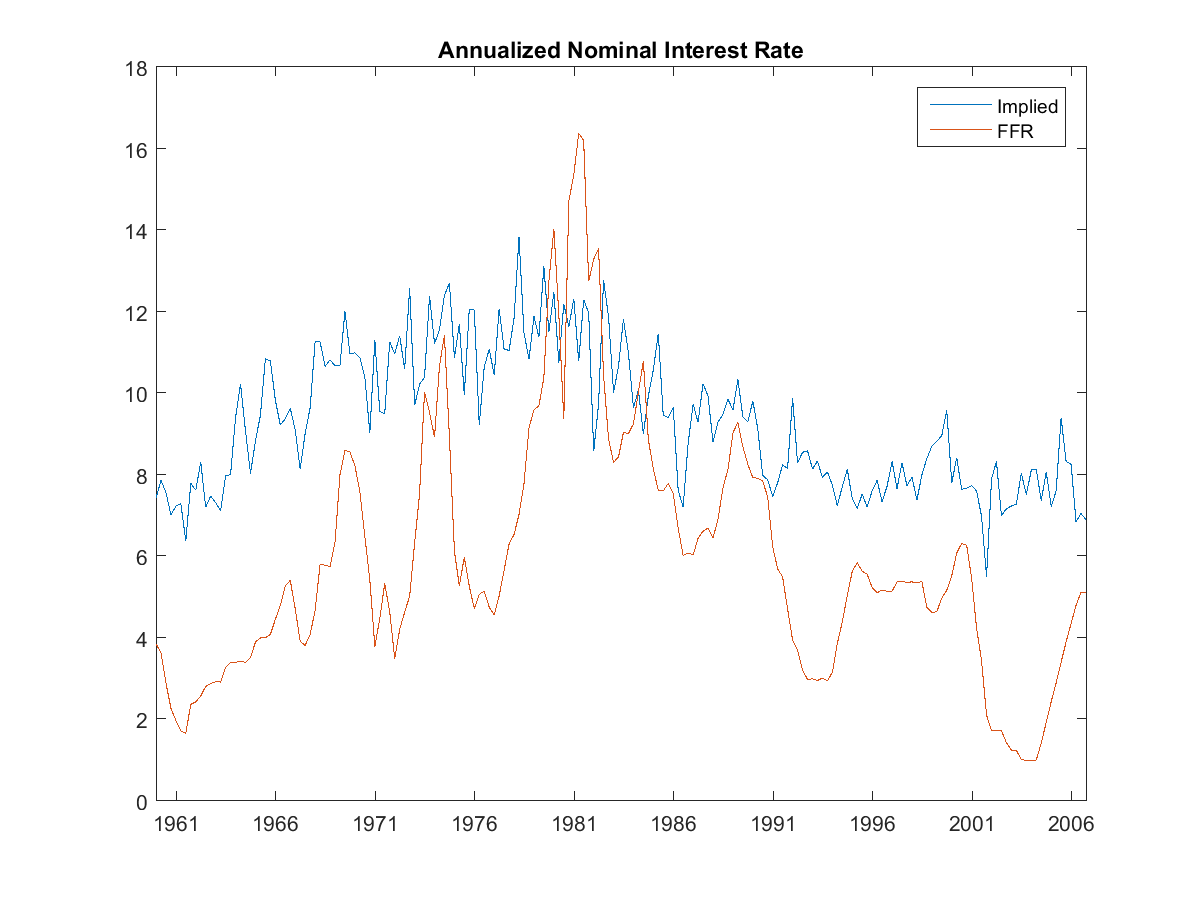
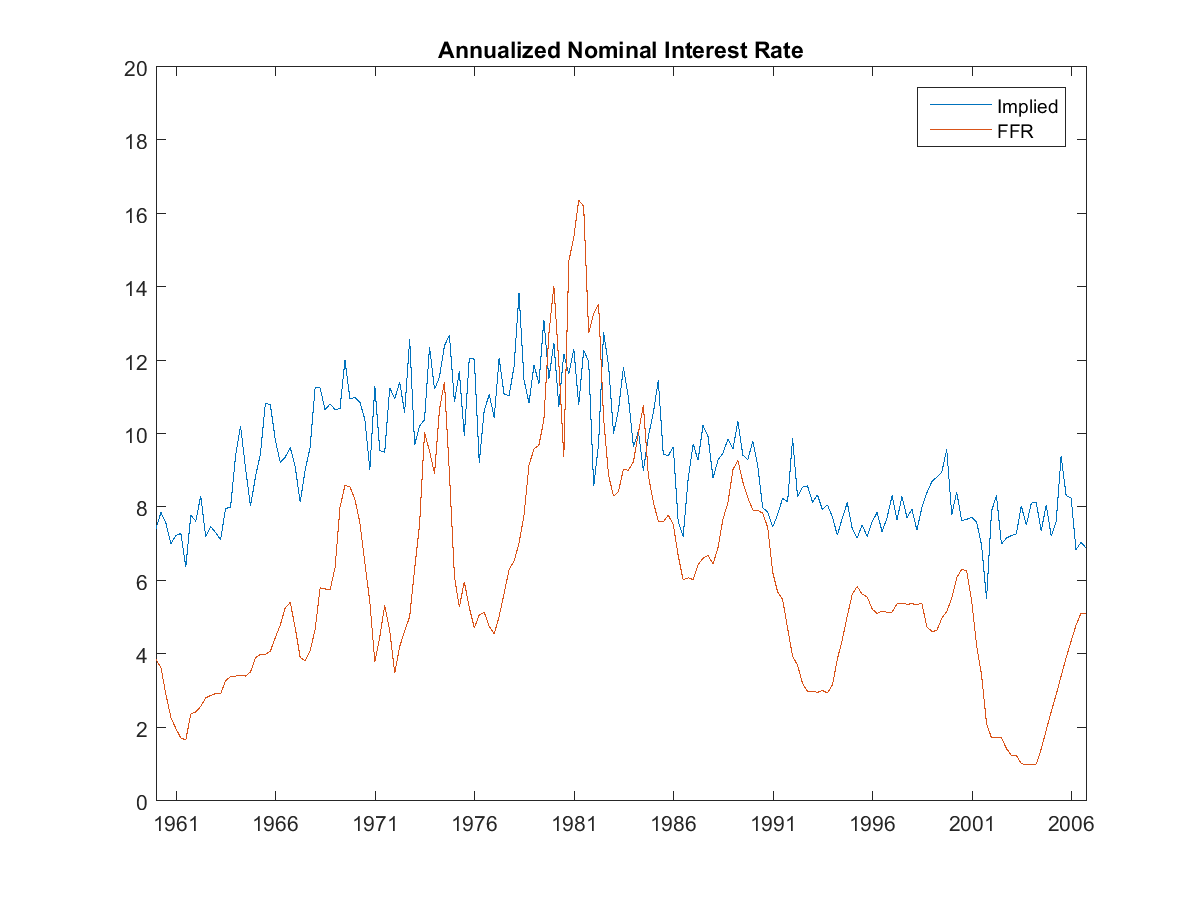
All implied rates, with small SD in 2/4

diff --git a/src/main.m b/src/main.m
@@ -50,99 +50,87 @@ alpha = 2; % coefficient of relative risk aversion
 % Collard & Dellas sample: 1960:Q1 to 2006:Q4
 collard = 1:188;
 
-
 %% COMPUTE NOMINAL RATES
-% for i = 1:4
-%     nu = nom(i).nu;
-%     phi = nom(i).phi;
-%     ymin = nom(i).ymin;
-%     ymax = nom(i).ymax;
-%     
-%         chi_1t = (nu*(1-alpha) - 1)*Et_c_tp1 - phi*nu*(1-alpha)*c_t ...
-%         + (1-nu)*(1-alpha)*Et_l_tp1 - Et_pi_tp1 ...
-%         + 1/2*(nu*(1-alpha) - 1)^2*Vt_c_tp1 ...
-%         + 1/2*((1-nu)*(1-alpha))^2*Vt_l_tp1 + 1/2*Vt_pi_tp1 ...
-%         - (1-nu)*(1-alpha)*Ct_pi_l_tp1 ...
-%         + (nu*(1-alpha) - 1)*(1-nu)*(1-alpha)*Ct_c_l_tp1 ...
-%         - (nu*(1-alpha) - 1)*Ct_c_pi_tp1;
-%     
-%     chi_2t = nu*(1-alpha)*Et_c_tp2 - (phi*nu*(1-alpha) + 1)*Et_c_tp1 ...
-%         + (1-nu)*(1-alpha)*Et_l_tp2 - Et_pi_tp1 ...
-%         + 1/2*(nu*(1-alpha))^2*Vt_c_tp2 ...
-%         + 1/2*(phi*nu*(1-alpha) + 1)^2*Vt_c_tp1 ...
-%         + 1/2*((1-nu)*(1-alpha))^2*Vt_l_tp1 + 1/2*Vt_pi_tp1 ...
-%         - nu*(1-alpha)*Ct_pi_tp1_c_tp2 ...
-%         + (phi*nu*(1-alpha) + 1)*Ct_c_pi_tp1 ...
-%         - (1-nu)*(1-alpha)*Ct_pi_tp1_l_tp2 ...
-%         - nu*(1-alpha)*(phi*nu*(1-alpha) + 1)*Ct_c_tp1_tp2 ...
-%         + nu*(1-nu)*(1-alpha)^2*Ct_c_l_tp2 ...
-%         - (phi*nu*(1-alpha) + 1)*(1-nu)*(1-alpha)*Ct_c_tp1_l_tp2;
-%     
-%     chi_3t = (nu*(1-alpha) - 1)*c_t - phi*nu*(1-alpha)*c_tm1 ...
-%         + (1-nu)*(1-alpha)*l_t;
-%     
-%     chi_4t = nu*(1-alpha)*Et_c_tp1 - (phi*nu*(1-alpha) + 1)*c_t ...
-%         + (1-nu)*(1-alpha)*Et_l_tp1 + 1/2*(nu*(1-alpha))^2*Vt_c_tp1 ...
-%         + 1/2*((1-nu)*(1-alpha))^2*Vt_l_tp1 ...
-%         + nu*(1-nu)*(1-alpha)^2*Ct_c_l_tp1;
-%     
-% %     chi_1t = ((1-alpha) - 1)*Et_c_tp1 - phi*(1-alpha)*c_t ...
-% %         - Et_pi_tp1 ...
-% %         + 1/2*((1-alpha) - 1)^2*Vt_c_tp1 ...
-% %         + 1/2*Vt_pi_tp1 ...
-% %         - ((1-alpha) - 1)*Ct_c_pi_tp1;
-% %     
-% %     chi_2t = (1-alpha)*Et_c_tp2 - (phi*(1-alpha) + 1)*Et_c_tp1 ...
-% %         - Et_pi_tp1 ...
-% %         + 1/2*((1-alpha))^2*Vt_c_tp2 ...
-% %         + 1/2*(phi*(1-alpha) + 1)^2*Vt_c_tp1 ...
-% %         + 1/2*Vt_pi_tp1 ...
-% %         - (1-alpha)*Ct_pi_tp1_c_tp2 ...
-% %         + (phi*(1-alpha) + 1)*Ct_c_pi_tp1 ...
-% %         - (1-alpha)*(phi*(1-alpha) + 1)*Ct_c_tp1_tp2;
-% %     
-% %     chi_3t = ((1-alpha) - 1)*c_t - phi*(1-alpha)*c_tm1;
-% %     
-% %     chi_4t = (1-alpha)*Et_c_tp1 - (phi*(1-alpha) + 1)*c_t ...
-% %         + 1/2*((1-alpha))^2*Vt_c_tp1;
-%     
-%     I_t_inv = beta * (exp(chi_1t) - beta*phi*exp(chi_2t)) ./ (exp(chi_3t) - beta*phi*exp(chi_4t));
-%     I_t = 1 ./ I_t_inv; % quarterly gross nominal rate
-%     I_t_ann = I_t .^ 4; % annualized gross nominal rate
-%     I_t_scaled = log(I_t_ann) .* 100;
-% 
-%     plot(date(collard), I_t_scaled(collard), date(collard), FFR_t_scaled(collard));
-%     title('Annualized Nominal Interest Rate');
-%     legend('Implied', 'FFR');
-%     xlim([datenum(1960, 1, 1) datenum(2006, 10, 1)]);
-%     %ylim([ymin ymax])
-%     file = strcat('figs/crra-nominal_', int2str(i), '.png');
-%     print(file, '-dpng');
-%     
-%     nom(i).mean = mean(I_t_scaled(collard));
-%     nom(i).std = std(I_t_scaled(collard));
-%     nom(i).corr = corrcoef(I_t_scaled(collard), FFR_t_scaled(collard));
-% end
+for i = 1:4
+    nu = nom(i).nu;
+    phi = nom(i).phi;
+    ymin = nom(i).ymin;
+    ymax = nom(i).ymax;
+    
+        chi_1t = (nu*(1-alpha) - 1)*Et_c_tp1 - phi*nu*(1-alpha)*c_t ...
+        + (1-nu)*(1-alpha)*Et_l_tp1 - Et_pi_tp1 ...
+        + 1/2*(nu*(1-alpha) - 1)^2*Vt_c_tp1 ...
+        + 1/2*((1-nu)*(1-alpha))^2*Vt_l_tp1 + 1/2*Vt_pi_tp1 ...
+        - (1-nu)*(1-alpha)*Ct_pi_l_tp1 ...
+        + (nu*(1-alpha) - 1)*(1-nu)*(1-alpha)*Ct_c_l_tp1 ...
+        - (nu*(1-alpha) - 1)*Ct_c_pi_tp1;
+    
+    chi_2t = nu*(1-alpha)*Et_c_tp2 - (phi*nu*(1-alpha) + 1)*Et_c_tp1 ...
+        + (1-nu)*(1-alpha)*Et_l_tp2 - Et_pi_tp1 ...
+        + 1/2*(nu*(1-alpha))^2*Vt_c_tp2 ...
+        + 1/2*(phi*nu*(1-alpha) + 1)^2*Vt_c_tp1 ...
+        + 1/2*((1-nu)*(1-alpha))^2*Vt_l_tp1 + 1/2*Vt_pi_tp1 ...
+        - nu*(1-alpha)*Ct_pi_tp1_c_tp2 ...
+        + (phi*nu*(1-alpha) + 1)*Ct_c_pi_tp1 ...
+        - (1-nu)*(1-alpha)*Ct_pi_tp1_l_tp2 ...
+        - nu*(1-alpha)*(phi*nu*(1-alpha) + 1)*Ct_c_tp1_tp2 ...
+        + nu*(1-nu)*(1-alpha)^2*Ct_c_l_tp2 ...
+        - (phi*nu*(1-alpha) + 1)*(1-nu)*(1-alpha)*Ct_c_tp1_l_tp2;
+    
+    chi_3t = (nu*(1-alpha) - 1)*c_t - phi*nu*(1-alpha)*c_tm1 ...
+        + (1-nu)*(1-alpha)*l_t;
+    
+    chi_4t = nu*(1-alpha)*Et_c_tp1 - (phi*nu*(1-alpha) + 1)*c_t ...
+        + (1-nu)*(1-alpha)*Et_l_tp1 + 1/2*(nu*(1-alpha))^2*Vt_c_tp1 ...
+        + 1/2*((1-nu)*(1-alpha))^2*Vt_l_tp1 ...
+        + nu*(1-nu)*(1-alpha)^2*Ct_c_l_tp1;
+    
+    I_t_inv = beta * (exp(chi_1t) - beta*phi*exp(chi_2t)) ./ (exp(chi_3t) - beta*phi*exp(chi_4t));
+    I_t = 1 ./ I_t_inv; % quarterly gross nominal rate
+    I_t_ann = I_t .^ 4; % annualized gross nominal rate
+    I_t_scaled = log(I_t_ann) .* 100;
+
+    plot(date(collard), I_t_scaled(collard), date(collard), FFR_t_scaled(collard));
+    title('Annualized Nominal Interest Rate');
+    legend('Implied', 'FFR');
+    xlim([datenum(1960, 1, 1) datenum(2006, 10, 1)]);
+    ylim([ymin ymax])
+    file = strcat('figs/crra-nominal_', int2str(i), '.png');
+    print(file, '-dpng');
+    
+    nom(i).mean = mean(I_t_scaled(collard));
+    nom(i).std = std(I_t_scaled(collard));
+    corr_matrix = corrcoef(I_t_scaled(collard), FFR_t_scaled(collard));
+    nom(i).corr = corr_matrix(1, 2);
+end
 
 %% COMPUTE REAL RATES
-for i = 2:2
+for i = 1:4
     nu = real(i).nu;
     phi = real(i).phi;
     ymin = real(i).ymin;
     ymax = real(i).ymax;
     
-    chi_real_1t = -alpha*Et_c_tp1 - phi*(1-alpha)*c_t;% ...
-       % + 1/2*((1-alpha) - 1)^2*Vt_c_tp1;
+    chi_real_1t = (nu*(1-alpha) - 1)*Et_c_tp1 - phi*nu*(1-alpha)*c_t ...
+        + (1-nu)*(1-alpha)*Et_l_tp1 + 1/2*(nu*(1-alpha) - 1)^2*Vt_c_tp1 ...
+        + 1/2*((1-nu)*(1-alpha))^2*Vt_l_tp1 ...
+        + (nu*(1-alpha) - 1)*(1-nu)*(1-alpha)*Ct_c_l_tp1;
     
-    chi_real_2t = (1-alpha)*Et_c_tp2 - (phi*(1-alpha) + 1)*Et_c_tp1;% ...
-        %+ 1/2*((1-alpha))^2*Vt_c_tp2 ...
-        %+ 1/2*(phi*(1-alpha) + 1)^2*Vt_c_tp1 ...
-        %- (1-alpha)*(phi*(1-alpha) + 1)*Ct_c_tp1_tp2;
+    chi_real_2t = nu*(1-alpha)*Et_c_tp2 - (phi*nu*(1-alpha) + 1)*Et_c_tp1 ...
+        + (1-nu)*(1-alpha)*Et_l_tp2 + 1/2*(nu*(1-alpha))^2*Vt_c_tp2 ...
+        + 1/2*(phi*nu*(1-alpha) + 1)^2*Vt_c_tp1 ...
+        + 1/2*((1-nu)*(1-alpha))^2*Vt_l_tp1 ...
+        - nu*(1-alpha)*(phi*nu*(1-alpha) + 1)*Ct_c_tp1_tp2 ...
+        + nu*(1-nu)*(1-alpha)^2*Ct_c_l_tp2 ...
+        - (phi*nu*(1-alpha) + 1)*(1-nu)*(1-alpha)*Ct_c_tp1_l_tp2;
     
-    chi_real_3t = -alpha*c_t - phi*(1-alpha)*c_tm1;
+    chi_real_3t = (nu*(1-alpha) - 1)*c_t - phi*nu*(1-alpha)*c_tm1 ...
+        + (1-nu)*(1-alpha)*l_t;
     
-    chi_real_4t = (1-alpha)*Et_c_tp1 - (phi*(1-alpha) + 1)*c_t;% ...
-        %+ 1/2*((1-alpha))^2*Vt_c_tp1;
+    chi_real_4t = nu*(1-alpha)*Et_c_tp1 - (phi*nu*(1-alpha) + 1)*c_t ...
+        + (1-nu)*(1-alpha)*Et_l_tp1 + 1/2*(nu*(1-alpha))^2*Vt_c_tp1 ...
+        + 1/2*((1-nu)*(1-alpha))^2*Vt_l_tp1 ...
+        + nu*(1-nu)*(1-alpha)^2*Ct_c_l_tp1;
     
     R_t_inv = beta * (exp(chi_real_1t) - beta*phi*exp(chi_real_2t)) ./ (exp(chi_real_3t) - beta*phi*exp(chi_real_4t));
     R_t = 1 ./ R_t_inv; % quarterly gross real rate
@@ -153,11 +141,12 @@ for i = 2:2
     title('Annualized Real Interest Rate');
     legend('Implied', 'FFR');
     xlim([datenum(1960, 1, 1) datenum(2006, 10, 1)]);
-    %ylim([ymin ymax])
+    ylim([ymin ymax])
     file = strcat('figs/crra-real_', int2str(i), '.png');
     print(file, '-dpng');
     
     real(i).mean = mean(R_t_scaled(collard));
     real(i).std = std(R_t_scaled(collard));
-    real(i).corr = corrcoef(R_t_scaled(collard), FFR_real_t_scaled(collard));
+    corr_matrix = corrcoef(R_t_scaled(collard), FFR_real_t_scaled(collard));
+    real(i).corr = corr_matrix(1, 2);
 end
